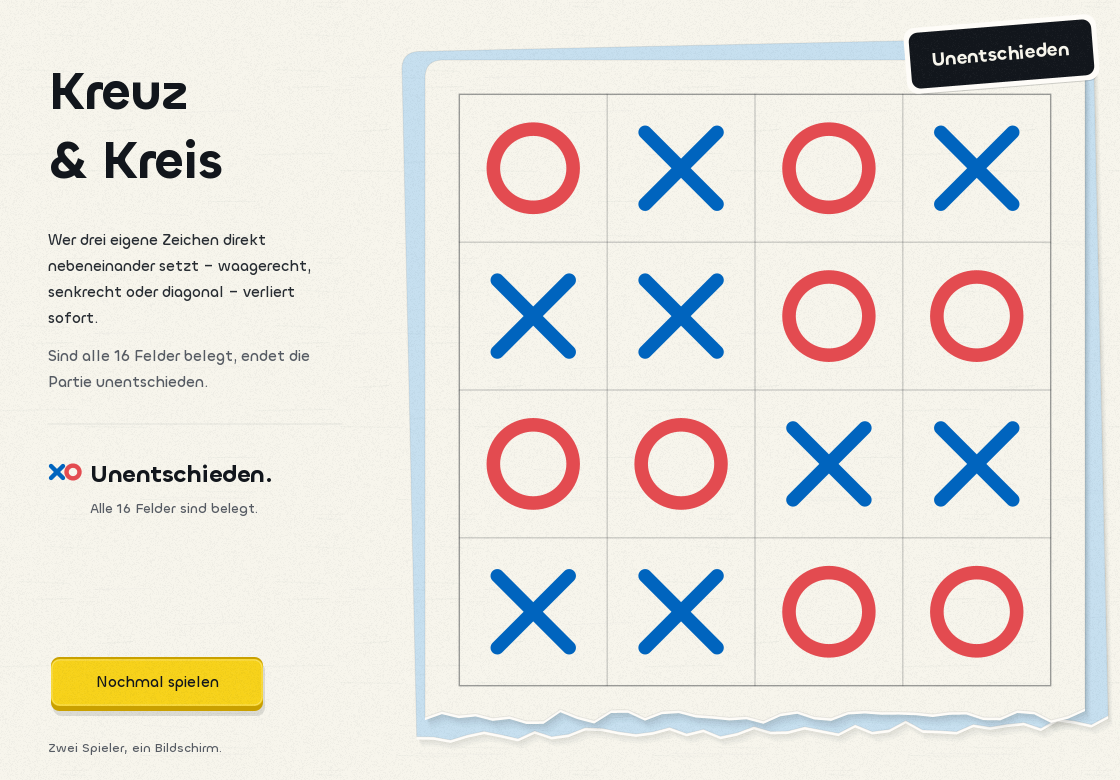
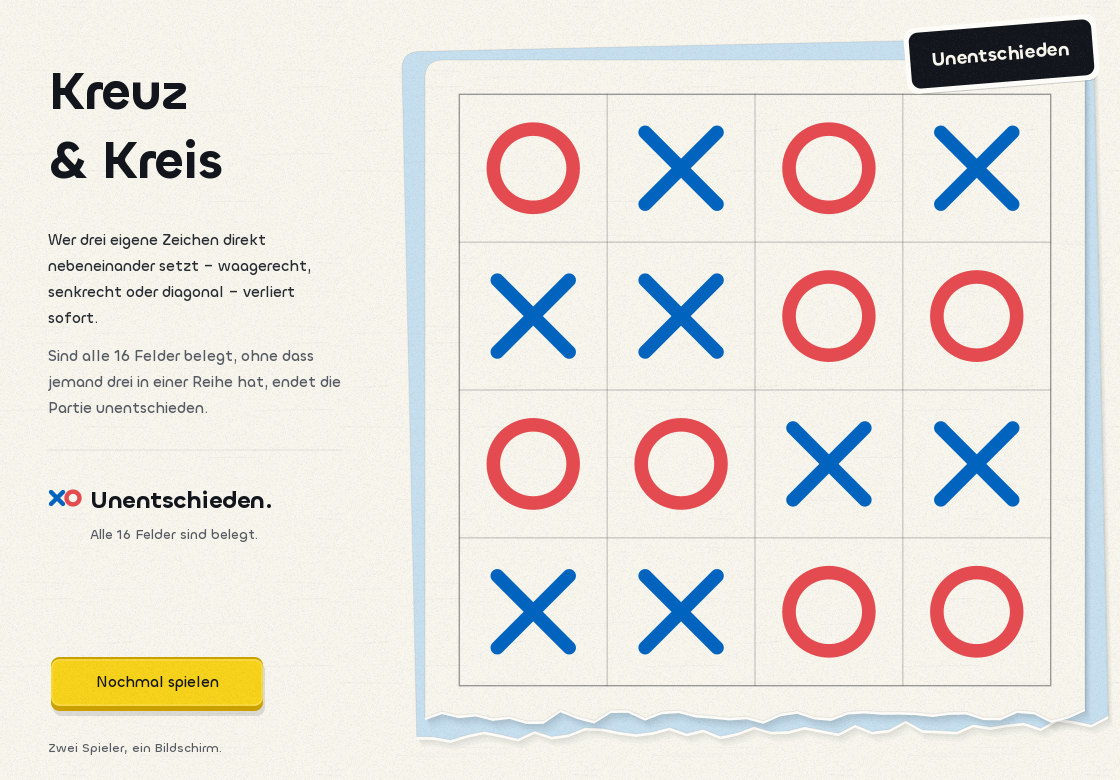
fix: Fokusring, Regeltext und Build-Robustheit

Changed region(s): [[0.0312, 0.5846, 0.25, 0.7077], [0.0312, 0.4308, 0.2812, 0.5538]]

diff --git a/src/test/java/de/kreuzkreis/UiTest.java b/src/test/java/de/kreuzkreis/UiTest.java
@@ -4,9 +4,13 @@ import java.awt.Component;
 import java.awt.Container;
 import java.awt.Point;
 import java.awt.event.ActionEvent;
+import java.awt.event.FocusEvent;
+import java.awt.event.FocusListener;
 import java.awt.event.MouseEvent;
 import java.awt.event.MouseListener;
 
+import javax.swing.JComponent;
+import javax.swing.KeyStroke;
 import javax.swing.SwingUtilities;
 
 import de.kreuzkreis.Game.Player;
@@ -40,6 +44,10 @@ public final class UiTest {
             run("Der Knopf startet eine neue Runde", UiTest::resetButtonStartsNewRound);
             run("Pfeiltasten und Enter setzen ein Zeichen", UiTest::keyboardPlacesSymbol);
             run("Der Knopf heisst nach dem Verlust Nochmal spielen", UiTest::buttonTextAfterLoss);
+            run("Tab-Fokus zeigt den Fokusring", UiTest::focusRingOnTraversal);
+            run("Klick auf belegtes Feld loescht den Fokusring", UiTest::occupiedClickClearsFocusRing);
+            run("Die Tastaturbelegung ist installiert", UiTest::keyBindingsInstalled);
+            run("Kompakte Groesse trifft alle 16 Felder", UiTest::compactHitTesting);
         });
 
         System.out.println();
@@ -135,9 +143,73 @@ public final class UiTest {
                 "Knopftext nach dem Verlust");
     }
 
+    private static void focusRingOnTraversal() {
+        AppPanel panel = panel(new Game());
+        BoardPanel board = panel.getBoardPanel();
+        assertFalse(board.isFocusIndicatorVisible(), "Start ohne Fokusring");
+
+        fireFocus(board, FocusEvent.FOCUS_GAINED, FocusEvent.Cause.TRAVERSAL);
+        assertTrue(board.isFocusIndicatorVisible(), "Tab-Traversierung muss den Ring zeigen");
+
+        fireFocus(board, FocusEvent.FOCUS_GAINED, FocusEvent.Cause.MOUSE_EVENT);
+        assertFalse(board.isFocusIndicatorVisible(), "Mausklick darf keinen Ring zeigen");
+
+        fireFocus(board, FocusEvent.FOCUS_LOST, FocusEvent.Cause.UNKNOWN);
+        assertFalse(board.isFocusIndicatorVisible(), "Fokusverlust muss den Ring verstecken");
+    }
+
+    private static void occupiedClickClearsFocusRing() {
+        AppPanel panel = panel(new Game());
+        BoardPanel board = panel.getBoardPanel();
+        click(board, 0, 0);
+        board.getActionMap().get("board-RIGHT")
+                .actionPerformed(new ActionEvent(board, ActionEvent.ACTION_PERFORMED, "right"));
+        assertTrue(board.isFocusIndicatorVisible(), "Nach der Pfeiltaste ist der Ring sichtbar");
+
+        click(board, 0, 0);
+        assertFalse(board.isFocusIndicatorVisible(), "Belegter Klick muss den Ring loeschen");
+    }
+
+    private static void keyBindingsInstalled() {
+        BoardPanel board = panel(new Game()).getBoardPanel();
+        for (String key : new String[]{"LEFT", "RIGHT", "UP", "DOWN", "ENTER", "SPACE"}) {
+            Object binding = board.getInputMap(JComponent.WHEN_FOCUSED)
+                    .get(KeyStroke.getKeyStroke(key));
+            assertTrue(binding != null, "Tastenbelegung fehlt: " + key);
+        }
+    }
+
+    private static void compactHitTesting() {
+        for (int row = 0; row < Game.SIZE; row++) {
+            for (int col = 0; col < Game.SIZE; col++) {
+                AppPanel panel = panel(new Game(), 1000, 680);
+                click(panel.getBoardPanel(), row, col);
+                assertEquals(1, panel.getGame().getMoveCount(),
+                        "Zugzahl bei " + row + "/" + col);
+                assertPlayer(Player.KREUZ, panel.getGame().playerAt(row, col),
+                        "Kreuz auf " + row + "/" + col);
+            }
+        }
+    }
+
+    private static void fireFocus(BoardPanel board, int id, FocusEvent.Cause cause) {
+        FocusEvent event = new FocusEvent(board, id, false, null, cause);
+        for (FocusListener listener : board.getFocusListeners()) {
+            if (id == FocusEvent.FOCUS_GAINED) {
+                listener.focusGained(event);
+            } else {
+                listener.focusLost(event);
+            }
+        }
+    }
+
     private static AppPanel panel(Game game) {
+        return panel(game, WIDTH, HEIGHT);
+    }
+
+    private static AppPanel panel(Game game, int width, int height) {
         AppPanel panel = new AppPanel(game);
-        panel.setSize(WIDTH, HEIGHT);
+        panel.setSize(width, height);
         layout(panel);
         return panel;
     }
@@ -192,6 +264,12 @@ public final class UiTest {
 
     private static void assertTrue(boolean condition, String message) {
         if (!condition) {
+            throw new AssertionError(message);
+        }
+    }
+
+    private static void assertFalse(boolean condition, String message) {
+        if (condition) {
             throw new AssertionError(message);
         }
     }

diff --git a/src/main/java/de/kreuzkreis/ui/BoardPanel.java b/src/main/java/de/kreuzkreis/ui/BoardPanel.java
@@ -98,6 +98,10 @@ public final class BoardPanel extends JPanel {
                     showFocus = false;
                     focusRow = cell.row();
                     focusCol = cell.col();
+                    if (!game.isFree(cell.row(), cell.col())) {
+                        repaint();
+                        return;
+                    }
                     attemptPlay(cell);
                 }
             }
@@ -108,8 +112,9 @@ public final class BoardPanel extends JPanel {
         addFocusListener(new FocusAdapter() {
             @Override
             public void focusGained(FocusEvent event) {
-                // Der Fokusring erscheint erst bei der Tastaturbedienung, nicht
-                // schon nach einem Mausklick.
+                // Tab und andere Fokus-Traversierung zeigen den Ring sofort;
+                // ein Mausklick soll keinen Ring hinterlassen.
+                showFocus = isTraversal(event.getCause());
                 repaint();
             }
 
@@ -133,6 +138,14 @@ public final class BoardPanel extends JPanel {
     }
 
     /**
+     * Sichtbarkeit des Tastaturfokus. Wird auch von der Oberflaechenpruefung
+     * genutzt, damit der Fokusring nicht unbemerkt verschwinden kann.
+     */
+    public boolean isFocusIndicatorVisible() {
+        return showFocus;
+    }
+
+    /**
      * Mittelpunkt einer Zelle in Komponentenkoordinaten. Wird von der
      * Oberflaechenpruefung und spaeteren Automatisierungen genutzt.
      */
@@ -153,7 +166,14 @@ public final class BoardPanel extends JPanel {
         bind("DOWN", () -> moveFocus(1, 0));
         bind("ENTER", this::activateFocus);
         bind("SPACE", this::activateFocus);
-        bind("NUMPADENTER", this::activateFocus);
+    }
+
+    private static boolean isTraversal(FocusEvent.Cause cause) {
+        return switch (cause) {
+            case TRAVERSAL, TRAVERSAL_UP, TRAVERSAL_DOWN,
+                 TRAVERSAL_FORWARD, TRAVERSAL_BACKWARD, ROLLBACK -> true;
+            default -> false;
+        };
     }
 
     private void bind(String keyStroke, Runnable action) {
@@ -188,6 +208,7 @@ public final class BoardPanel extends JPanel {
 
     private void attemptPlay(Cell cell) {
         if (!game.isFree(cell.row(), cell.col())) {
+            repaint();
             return;
         }
         if (game.play(cell.row(), cell.col())) {

diff --git a/src/test/java/de/kreuzkreis/GameTest.java b/src/test/java/de/kreuzkreis/GameTest.java
@@ -27,6 +27,7 @@ public final class GameTest {
         run("Volles Feld ohne Verlustreihe ist unentschieden", GameTest::fullBoardWithoutTripleIsDraw);
         run("Der letzte Zug kann zwei Reihen schliessen und verliert", GameTest::lastMoveCanCompleteTwoTriples);
         run("Eine Luecke verhindert eine Verlustreihe", GameTest::gapInRowDoesNotLose);
+        run("Eine Luecke in einer Viererzeile schliesst zwei Reihen", GameTest::gapInLineCompletesTwoTriples);
         run("Neustart leert das Brett und setzt Kreuz an den Zug", GameTest::resetClearsFinishedGame);
 
         System.out.println();
@@ -217,6 +218,26 @@ public final class GameTest {
         assertEquals(5, game.getMoveCount(), "Zugzahl");
         assertTrue(game.getLosingTriples().isEmpty(), "X X O X ist keine Verlustreihe");
         assertPlayer(Player.KREIS, game.getCurrentPlayer(), "Kreis ist am Zug");
+    }
+
+    private static void gapInLineCompletesTwoTriples() {
+        Game game = new Game();
+        playOk(game, 0, 0);
+        playOk(game, 1, 0);
+        playOk(game, 0, 1);
+        playOk(game, 1, 1);
+        playOk(game, 0, 3);
+        playOk(game, 2, 0);
+        assertState(State.RUNNING, game);
+
+        playOk(game, 0, 2);
+
+        assertState(State.KREUZ_LOST, game);
+        assertEquals(2, game.getLosingTriples().size(), "Anzahl der Verlustreihen");
+        assertTriple(game.getLosingTriples().get(0),
+                new Game.Cell(0, 0), new Game.Cell(0, 1), new Game.Cell(0, 2));
+        assertTriple(game.getLosingTriples().get(1),
+                new Game.Cell(0, 1), new Game.Cell(0, 2), new Game.Cell(0, 3));
     }
 
     private static void resetClearsFinishedGame() {

diff --git a/src/main/java/de/kreuzkreis/ui/SidePanel.java b/src/main/java/de/kreuzkreis/ui/SidePanel.java
@@ -29,7 +29,7 @@ public final class SidePanel extends JPanel {
     private static final String RULE_ONE =
             "Wer drei eigene Zeichen direkt nebeneinander setzt – waagerecht, senkrecht oder diagonal – verliert sofort.";
     private static final String RULE_TWO =
-            "Sind alle 16 Felder belegt, endet die Partie unentschieden.";
+            "Sind alle 16 Felder belegt, ohne dass jemand drei in einer Reihe hat, endet die Partie unentschieden.";
 
     private final Game game;
     private final PaperButton resetButton;

diff --git a/src/main/java/de/kreuzkreis/ui/Palette.java b/src/main/java/de/kreuzkreis/ui/Palette.java
@@ -7,6 +7,8 @@ import de.kreuzkreis.Game.Player;
 /**
  * Farbtokens des Hum-Materials aus dem Hallmark-Theme-Katalog.
  * Die Werte sind die sRGB-Entsprechungen der dortigen OKLCH-Tokens.
+ * Einige Rollen der vollstaendigen Palette sind fuer spaetere Flaechen
+ * reserviert und werden auf dieser Seite noch nicht benutzt.
  */
 public final class Palette {
 

diff --git a/src/main/java/de/kreuzkreis/ui/Fonts.java b/src/main/java/de/kreuzkreis/ui/Fonts.java
@@ -52,10 +52,4 @@ public final class Fonts {
         return semibold.deriveFont(size)
                 .deriveFont(Map.of(TextAttribute.TRACKING, -0.02f));
     }
-
-    public static Font displayTight(float size) {
-        load();
-        return semibold.deriveFont(size)
-                .deriveFont(Map.of(TextAttribute.TRACKING, -0.035f));
-    }
 }

diff --git a/README.md b/README.md
@@ -16,9 +16,15 @@ Voraussetzung: **JDK 17 oder neuer**.
 - `test.bat` – führt die Modell- und Oberflächentests aus.
 - `preview.bat` – schreibt die Vorschaubilder nach `docs/`.
 
+Vor einem Neubau das laufende Spiel schließen: Windows sperrt die geöffnete
+`KreuzKreis.jar`. Der Build meldet das und lässt die alte Datei unangetastet.
+Wenn beim Start etwas schiefgeht, `java -jar KreuzKreis.jar` im Terminal
+ausführen; dann erscheint die Fehlermeldung.
+
 Unter macOS oder Linux funktioniert der Build auch von Hand:
 
 ```bash
+rm -rf out
 mkdir -p out
 find src/main/java -name '*.java' > sources.txt
 javac --release 17 -encoding UTF-8 -d out @sources.txt
